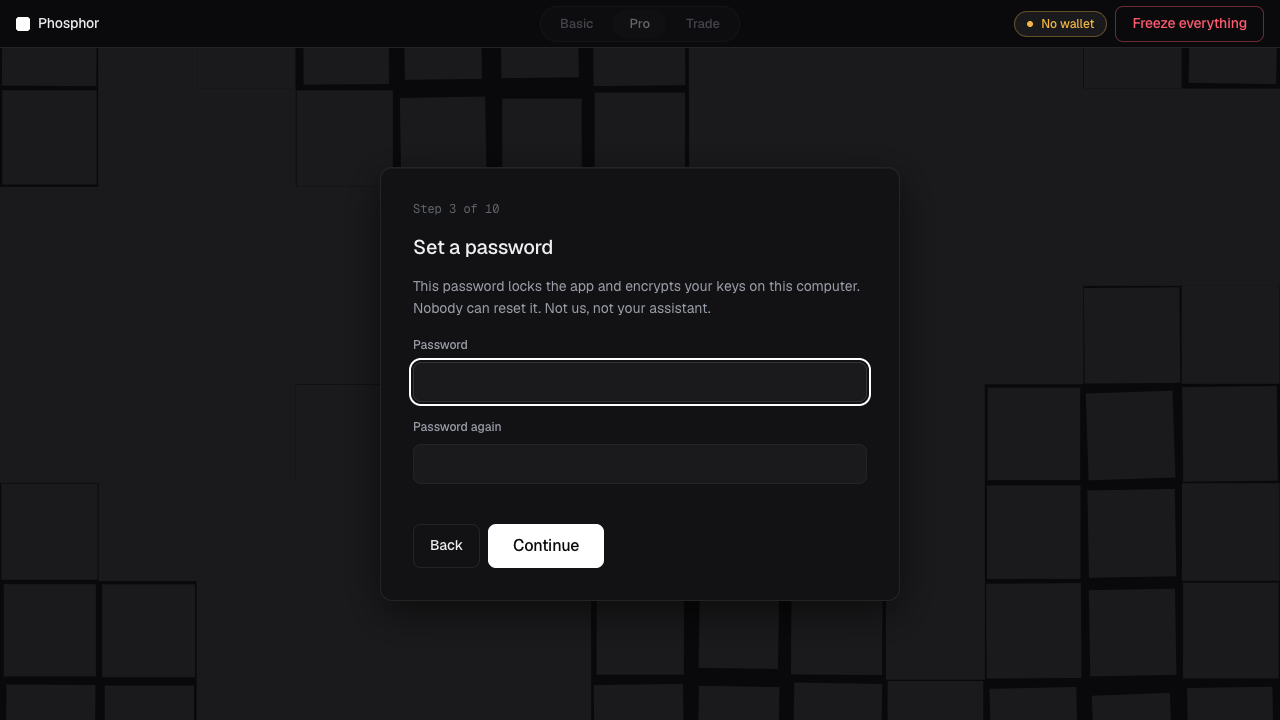
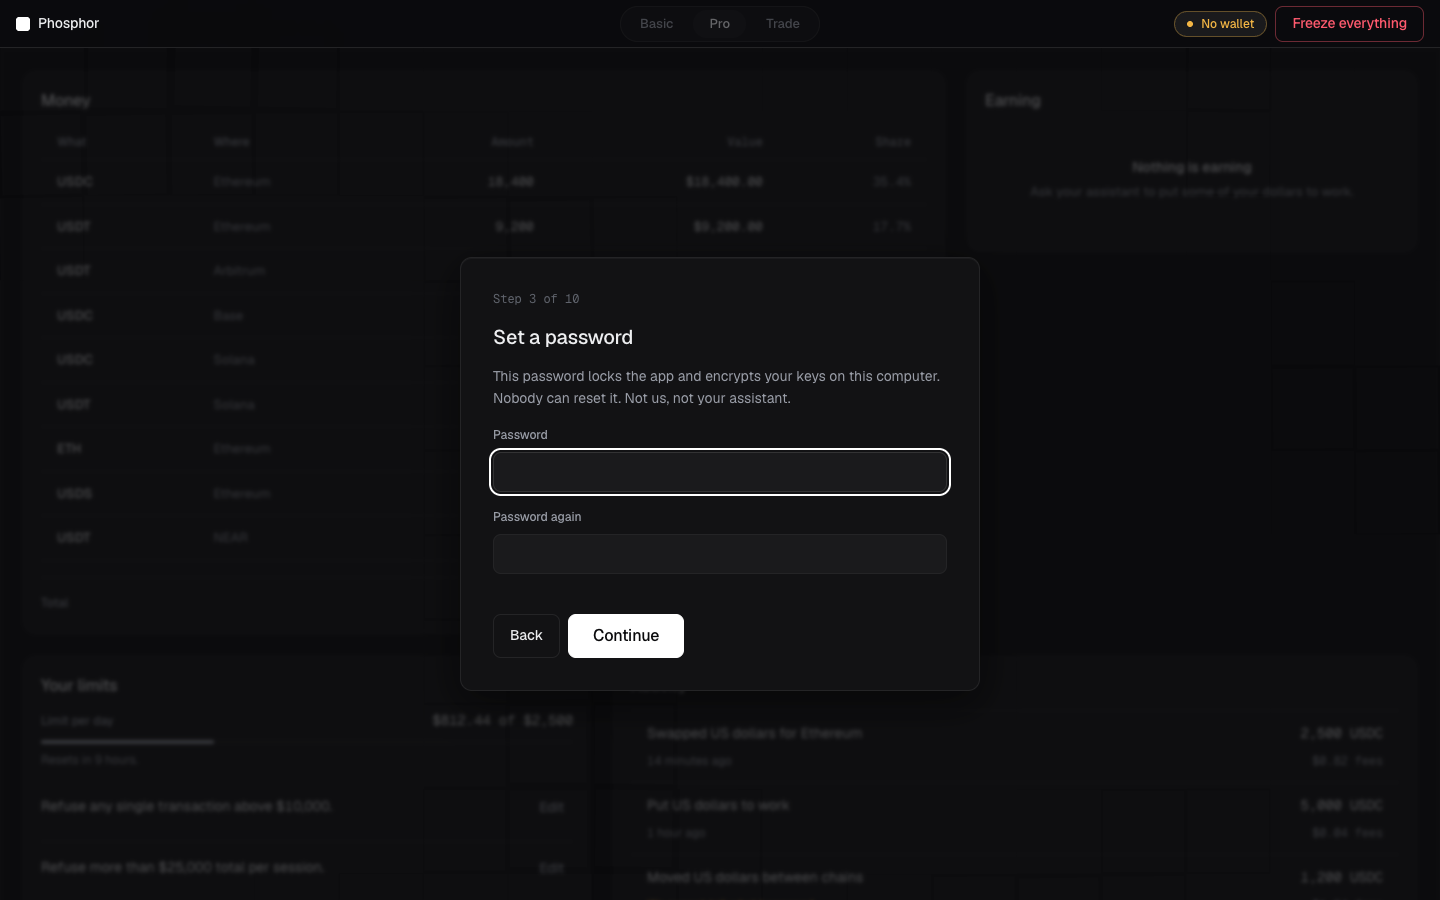
The lock lets the balance show through, and a password field is a form a manager can fill

diff --git a/ui/screens/lock.js b/ui/screens/lock.js
@@ -42,13 +42,13 @@
     else buildLock();
   }
 
+  /* No field of its own. The window has exactly one, it is already behind
+     everything, and the shell drives it to `locked` the moment the lock state
+     arrives. A second field here would paint an opaque ground over the dimmed
+     shell, and the point of dimming rather than hiding is that a person can
+     still see their balance without unlocking. */
   function shell() {
     dom.clear(refs.host);
-    var field = dom.el('div', 'pattern-local');
-    refs.host.appendChild(field);
-    if (window.PhosphorPattern) {
-      window.PhosphorPattern.mount(field, { cells: 13, state: 'locked', seed: 3 });
-    }
     var card = dom.el('div', 'screen-card');
     refs.host.appendChild(card);
     return card;
@@ -59,23 +59,29 @@
     card.appendChild(dom.el('h1', 'title', 'Locked'));
     card.appendChild(dom.el('p', 'body dim', 'Your password unlocks this app on this computer. Nobody can reset it.'));
 
+    /* A real form, not a loose input: it is what lets a password manager offer
+       to fill and to save, and it gives Enter to submit without a key handler. */
+    var form = dom.el('form', 'stack');
     var field = dom.el('div', 'field');
     field.appendChild(dom.el('label', 'label', 'Password'));
     var input = dom.el('input', 'input');
     input.type = 'password';
+    input.name = 'password';
     input.autocomplete = 'current-password';
     field.appendChild(input);
-    card.appendChild(field);
+    form.appendChild(field);
 
     var error = dom.el('p', 'body down');
     error.hidden = true;
-    card.appendChild(error);
+    form.appendChild(error);
 
     var actions = dom.el('div', 'screen-actions');
     var unlock = dom.el('button', 'btn btn-primary btn-lg');
+    unlock.type = 'submit';
     unlock.appendChild(dom.el('span', 'btn-label', 'Unlock'));
     actions.appendChild(unlock);
-    card.appendChild(actions);
+    form.appendChild(actions);
+    card.appendChild(form);
 
     card.appendChild(dom.el('p', 'meta', 'Your money is still here and still being read. Nothing moves while this app is locked.'));
 
@@ -107,9 +113,9 @@
         });
     };
 
-    dom.on(unlock, 'click', submit);
-    dom.on(input, 'keydown', function (event) {
-      if (event.key === 'Enter') submit();
+    dom.on(form, 'submit', function (event) {
+      event.preventDefault();
+      submit();
     });
     input.focus();
   }
@@ -134,40 +140,46 @@
     card.appendChild(dom.el('h1', 'title', 'Your keys are not encrypted'));
     card.appendChild(dom.el('p', 'body dim', 'This app found a key file on this computer that anything running as you can read. Set a password and it gets encrypted, then the readable copy is destroyed.'));
 
+    var form = dom.el('form', 'stack');
     var one = dom.el('div', 'field');
     one.appendChild(dom.el('label', 'label', 'Password'));
     var first = dom.el('input', 'input');
     first.type = 'password';
+    first.name = 'password';
     first.autocomplete = 'new-password';
     one.appendChild(first);
-    card.appendChild(one);
+    form.appendChild(one);
 
     var two = dom.el('div', 'field');
     two.appendChild(dom.el('label', 'label', 'Password again'));
     var second = dom.el('input', 'input');
     second.type = 'password';
+    second.name = 'password-confirm';
     second.autocomplete = 'new-password';
     two.appendChild(second);
-    card.appendChild(two);
+    form.appendChild(two);
 
     var strength = dom.el('p', 'meta');
-    card.appendChild(strength);
+    form.appendChild(strength);
 
     var error = dom.el('p', 'body down');
     error.hidden = true;
-    card.appendChild(error);
+    form.appendChild(error);
 
     var actions = dom.el('div', 'screen-actions');
     var go = dom.el('button', 'btn btn-primary btn-lg');
+    go.type = 'submit';
     go.appendChild(dom.el('span', 'btn-label', 'Encrypt now'));
     actions.appendChild(go);
-    card.appendChild(actions);
+    form.appendChild(actions);
+    card.appendChild(form);
 
     dom.on(first, 'input', function () {
       dom.setText(strength, window.PhosphorFirstRun.strengthWords(first.value));
     });
 
-    dom.on(go, 'click', function () {
+    dom.on(form, 'submit', function (event) {
+      event.preventDefault();
       if (first.value.length < 8) {
         fail(error, 'Use at least eight characters.');
         return;

diff --git a/ui/screens/firstrun.js b/ui/screens/firstrun.js
@@ -31,11 +31,8 @@
     dom.setAttr(document.body, 'data-locked', 'true');
     dom.setHidden(host, false);
     dom.clear(host);
-    var field = dom.el('div', 'pattern-local');
-    host.appendChild(field);
-    if (window.PhosphorPattern) {
-      window.PhosphorPattern.mount(field, { cells: 13, state: 'idle', seed: 5 });
-    }
+    /* The window's one field is already behind this, and the shell holds it at
+       `locked` while there is no wallet. */
     card = dom.el('div', 'screen-card');
     host.appendChild(card);
     step = 0;
@@ -431,11 +428,15 @@
 
   /* ---------- helpers ---------- */
 
+  /* A password input carries a name and an autocomplete hint so a password
+     manager can offer to save it. The card is not a form because the flow's
+     Continue moves between screens rather than submitting one. */
   function field(label, autocomplete) {
     var node = dom.el('div', 'field');
     node.appendChild(dom.el('label', 'label', label));
     var input = dom.el('input', 'input');
     input.type = 'password';
+    input.name = autocomplete === 'off' ? 'word' : 'password';
     input.autocomplete = autocomplete;
     node.appendChild(input);
     return { node: node, input: input };
